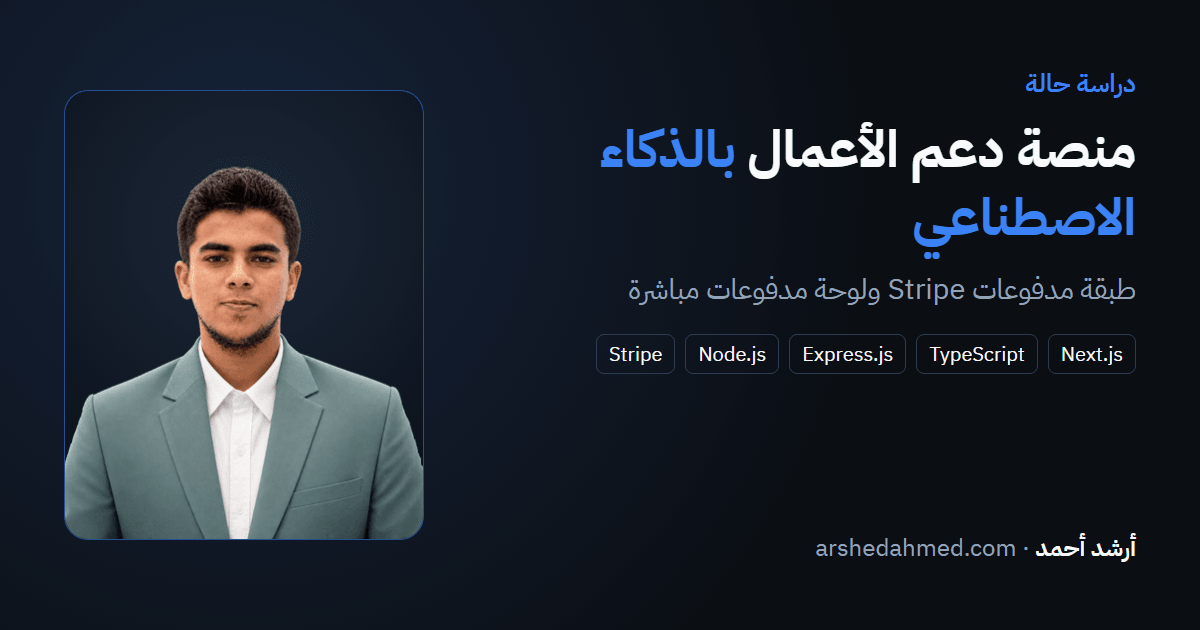
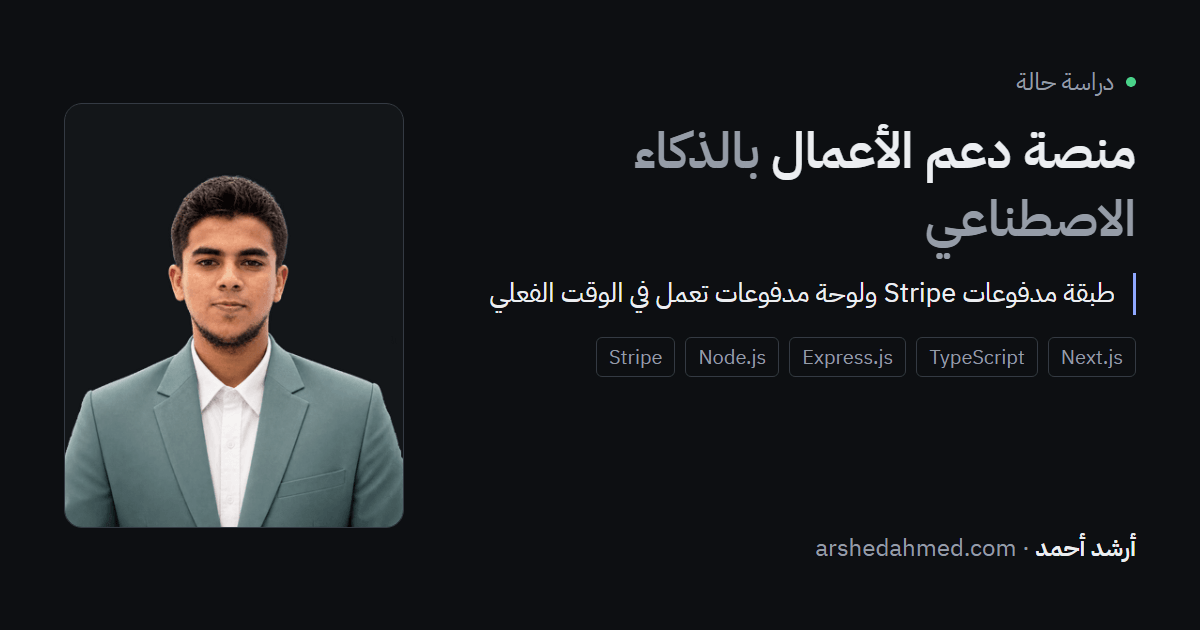
Make www canonical and refresh the share images
Vercel already serves www and 308s the apex, so canonical, og:url, hreflang, sitemap, JSON-LD
and internal links now all use https://www.arshedahmed.com (Netlify _redirects 301s the apex).
hreflang uses en / ar / x-default. Person JSON-LD has Abu Dhabi as its locality. OG cards in
both languages use the new headline and proof line.

diff --git a/src/components/seo/og.tsx b/src/components/seo/og.tsx
@@ -4,16 +4,18 @@ import { ogPortrait } from "./og-portrait";
 
 export const ogSize = { width: 1200, height: 630 };
 
+// Dark-theme tokens from globals.css (next/og can't read CSS variables).
 const C = {
-  base: "#0b0f14",
-  surface: "#111827",
-  line: "#2c3b52",
-  fg: "#f8fafc",
-  muted: "#94a3b8",
-  accent: "#3b82f6",
+  bg: "#0d0f12",
+  surface: "#131619",
+  line: "#343a43",
+  fg: "#eceef1",
+  muted: "#959ca7",
+  accent: "#8fa8ff",
+  live: "#4ad48a",
 };
 
-/** Shared Open Graph card used by the home page and every case study. */
+/** Shared Open Graph card used by the English home page and every English case study. */
 export function renderOg({
   eyebrow,
   title,
@@ -27,47 +29,38 @@ export function renderOg({
   subtitle: string;
   chips?: string[];
 }) {
+  const length = (title + (accent ?? "")).length;
+  const titleSize = length > 44 ? 54 : length > 24 ? 62 : 72;
   return new ImageResponse(
     (
-      <div
-        style={{
-          width: "100%",
-          height: "100%",
-          display: "flex",
-          background: `radial-gradient(circle at 80% 30%, #16233a 0%, ${C.base} 60%)`,
-          color: C.fg,
-          padding: 64,
-          fontFamily: "sans-serif",
-        }}
-      >
-        <div style={{ display: "flex", flexDirection: "column", justifyContent: "space-between", flex: 1, paddingRight: 32 }}>
+      <div style={{ width: "100%", height: "100%", display: "flex", background: C.bg, color: C.fg, padding: 64, fontFamily: "sans-serif" }}>
+        <div style={{ display: "flex", flexDirection: "column", justifyContent: "space-between", flex: 1, paddingRight: 40 }}>
           <div style={{ display: "flex", flexDirection: "column" }}>
-            <div style={{ display: "flex", fontSize: 24, color: C.accent, letterSpacing: 2, textTransform: "uppercase" }}>
+            <div style={{ display: "flex", alignItems: "center", fontSize: 24, color: C.muted }}>
+              <div style={{ display: "flex", width: 10, height: 10, borderRadius: 10, background: C.live, marginRight: 12 }} />
               {eyebrow}
             </div>
-            <div style={{ display: "flex", flexWrap: "wrap", columnGap: 18, fontSize: (title + (accent ?? "")).length > 16 ? 64 : 72, fontWeight: 700, marginTop: 20, lineHeight: 1.05 }}>
+            <div style={{ display: "flex", flexWrap: "wrap", columnGap: 16, fontSize: titleSize, fontWeight: 600, marginTop: 28, lineHeight: 1.08, letterSpacing: -1.5 }}>
               <span>{title}</span>
-              {accent && <span style={{ color: C.accent }}>{accent}</span>}
+              {accent && <span style={{ color: C.muted }}>{accent}</span>}
             </div>
-            <div style={{ display: "flex", fontSize: 30, color: C.muted, marginTop: 24, lineHeight: 1.35, maxWidth: 680 }}>
+            <div style={{ display: "flex", fontSize: 28, color: C.fg, marginTop: 28, lineHeight: 1.35, maxWidth: 660, borderLeft: `3px solid ${C.accent}`, paddingLeft: 18 }}>
               {subtitle}
             </div>
             {chips.length > 0 && (
               <div style={{ display: "flex", flexWrap: "wrap", gap: 10, marginTop: 28 }}>
                 {chips.map((c) => (
-                  <div
-                    key={c}
-                    style={{ display: "flex", fontSize: 20, border: `1px solid ${C.line}`, borderRadius: 8, padding: "6px 12px", color: C.fg }}
-                  >
+                  <div key={c} style={{ display: "flex", fontSize: 20, border: `1px solid ${C.line}`, borderRadius: 6, padding: "4px 12px", color: C.muted }}>
                     {c}
                   </div>
                 ))}
               </div>
             )}
           </div>
-          <div style={{ display: "flex", fontSize: 24, color: C.muted }}>
-            <span style={{ color: C.fg, fontWeight: 600 }}>Arshed Ahmed</span>
-            <span style={{ marginLeft: 12 }}>· {new URL(site.url).host}</span>
+          <div style={{ display: "flex", alignItems: "center", fontSize: 24, color: C.muted }}>
+            <div style={{ display: "flex", width: 10, height: 10, borderRadius: 10, background: C.accent, marginRight: 12 }} />
+            <span style={{ color: C.fg, fontWeight: 600 }}>{site.name}</span>
+            <span style={{ marginLeft: 12 }}>· {new URL(site.url).host.replace(/^www\./, "")}</span>
           </div>
         </div>
         <div
@@ -75,17 +68,17 @@ export function renderOg({
             display: "flex",
             alignItems: "flex-end",
             justifyContent: "center",
-            width: 360,
-            height: 450,
+            width: 340,
+            height: 425,
             alignSelf: "center",
-            borderRadius: 24,
+            borderRadius: 18,
             overflow: "hidden",
-            border: `1px solid ${C.accent}88`,
-            background: "radial-gradient(circle at 50% 30%, #1c2738 0%, #0d131c 80%)",
+            border: `1px solid ${C.line}`,
+            background: C.surface,
           }}
         >
           {/* eslint-disable-next-line @next/next/no-img-element, jsx-a11y/alt-text */}
-          <img src={ogPortrait} width={360} height={450} style={{ objectFit: "cover" }} />
+          <img src={ogPortrait} width={340} height={425} style={{ objectFit: "cover" }} />
         </div>
       </div>
     ),

diff --git a/src/app/og-image.png/route.tsx b/src/app/og-image.png/route.tsx
@@ -1,17 +1,15 @@
 import { renderOg } from "@/components/seo/og";
 import { catalog } from "@/i18n/messages";
-import { site } from "@/lib/site";
 
 // English home card, at a fixed URL with a real extension so static hosts send the right content type.
 // (An opengraph-image file inside a route group gets a hashed, extensionless URL.)
 export const dynamic = "force-static";
 
 export function GET() {
-  const { common } = catalog("en");
+  const { common, hero } = catalog("en");
   return renderOg({
     eyebrow: common.status,
-    title: site.firstName,
-    accent: site.lastName,
-    subtitle: common.positioning,
+    title: hero.headline,
+    subtitle: hero.proof,
   });
 }

diff --git a/src/components/seo/json-ld.tsx b/src/components/seo/json-ld.tsx
@@ -53,7 +53,7 @@ export function HomeJsonLd() {
             email: `mailto:${site.email}`,
             telephone: site.phoneE164,
             nationality: { "@type": "Country", name: "Sri Lanka" },
-            address: { "@type": "PostalAddress", addressCountry: "AE" },
+            address: { "@type": "PostalAddress", addressLocality: "Abu Dhabi", addressCountry: "AE" },
             sameAs: [site.linkedinUrl, site.githubUrl],
             knowsAbout: [...knowsAbout],
             knowsLanguage: [...knowsLanguage],

diff --git a/src/app/sitemap.ts b/src/app/sitemap.ts
@@ -15,7 +15,7 @@ function localizedEntries(path: string, entry: Omit<MetadataRoute.Sitemap[number
     alternates: {
       languages: {
         en: absolute(localePath("en", path)),
-        "ar-AE": absolute(localePath("ar", path)),
+        ar: absolute(localePath("ar", path)),
         "x-default": absolute(localePath(routing.defaultLocale, path)),
       },
     },

diff --git a/src/lib/metadata.ts b/src/lib/metadata.ts
@@ -15,7 +15,7 @@ export function localeAlternates(locale: Locale, path: string): Metadata["altern
     canonical: localePath(locale, path),
     languages: {
       en: localePath("en", path),
-      "ar-AE": localePath("ar", path),
+      ar: localePath("ar", path),
       "x-default": localePath(routing.defaultLocale, path),
     },
   };
